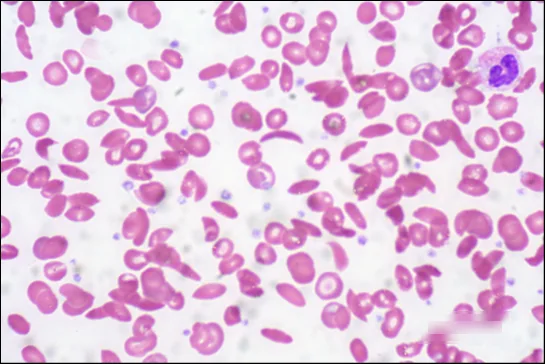
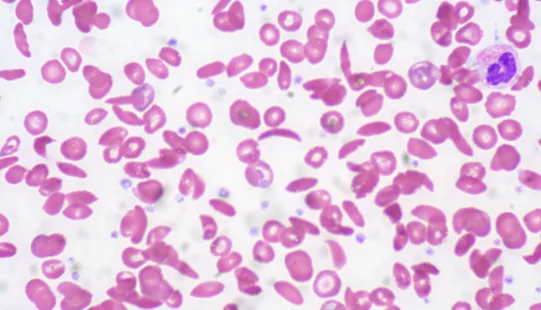
진행 중 작업 저장
Claude-Session: https://claude.ai/code/session_01AkwpGTzkgDbjbocjQu2QXd

diff --git a/docs/6-1.html b/docs/6-1.html
@@ -1101,7 +1101,7 @@
 <li><strong>항생제 내성</strong>: 항생제를 함부로 쓰면 우연히 내성을 가진 세균만 살아남아 늘어난다(4-2 단원의 <strong>자연선택</strong>). 그래서 항생제는 꼭 필요할 때, 처방대로 끝까지 먹어야 한다.</li>
 </ul>
 <p>항생제가 세균의 증식을 막는 효과는 배양 접시에서 직접 확인할 수 있다.</p>
-<figure class="photo small" id="photo-6-1-antibiotic-disk-plate"><div class="photo-art"><div class="photo-stack"><img src="assets/photos/6-1-antibiotic-disk-plate.webp" width="468" height="476" alt="검은 바탕 위의 둥근 배양 접시. 연한 노란빛을 띤 뿌연 세균층이 접시를 덮고 있고, 그 위에 작은 원판 다섯 개가 흩어져 있다. 각 원판 둘레에는 크기가 서로 다른 짙은 청록색의 둥근 고리가 있으며 왼쪽 아래 원판의 고리가 가장 크다." loading="lazy"></div></div><figcaption><b>항생제가 세균의 증식을 막는 모습</b> 배양 접시 전체에 세균을 고르게 바르고 항생제를 적신 작은 종이 원판 다섯 개를 올려 기른 것이다. 세균이 자란 곳은 뿌옇게 덮였지만, 원판 둘레에는 항생제가 퍼져 세균이 자라지 못한 둥근 투명 고리(억제 고리)가 생겼다. 고리가 클수록 그 항생제가 이 세균에 잘 듣는다. <span class="credit">출처: Don Stalons, CDC (OpenStax 수록), <a href="https://openstax.org/details/books/biology-2e" rel="noopener">OpenStax 《Biology 2e》 17.1 Biotechnology</a>, <a href="https://creativecommons.org/licenses/by/4.0/" rel="noopener">CC BY 4.0</a> · 원 그림에서 배양 접시 사진 부분만 잘라 냄</span></figcaption></figure>
+<figure class="photo small" id="photo-6-1-antibiotic-disk-plate"><div class="photo-art"><div class="photo-stack"><img src="assets/photos/6-1-antibiotic-disk-plate.webp" width="468" height="476" alt="검은 바탕 위의 둥근 배양 접시. 연한 노란빛을 띤 뿌연 세균층이 접시를 덮고 있고, 그 위에 작은 원판 다섯 개가 흩어져 있다. 각 원판 둘레에는 크기가 서로 다른 짙은 청록색의 둥근 고리가 있으며 왼쪽 아래 원판의 고리가 가장 크다." loading="lazy"></div></div><figcaption><b>항생제가 세균의 증식을 막는 모습</b> 배양 접시 전체에 세균을 고르게 바르고 항생제를 적신 작은 종이 원판 다섯 개를 올려 기른 것이다. 세균이 자란 곳은 뿌연 층으로 덮였지만, 원판 둘레에는 항생제가 퍼져 세균이 자라지 못했기 때문에 배지가 그대로 비쳐 보이는 짙은 색의 둥근 고리(억제 고리)가 생겼다. 고리가 클수록 그 항생제가 이 세균에 잘 듣는다. <span class="credit">출처: Don Stalons, CDC (OpenStax 수록), <a href="https://openstax.org/details/books/biology-2e" rel="noopener">OpenStax 《Biology 2e》 17.1 Biotechnology</a>, <a href="https://creativecommons.org/licenses/by/4.0/" rel="noopener">CC BY 4.0</a> · 원 그림에서 배양 접시 사진 부분만 잘라 냄</span></figcaption></figure>
 
 <h4 id="과학의-필요성을-논증하기">과학의 필요성을 논증하기</h4>
 <p><strong>논증(argument)</strong> 은 근거를 들어 주장을 정당화하는 것이다. 다음 세 요소를 갖추면 설득력 있는 논증이 된다.</p>

diff --git a/docs/3-6.html b/docs/3-6.html
@@ -847,7 +847,7 @@ mRNA와 비교하면 <strong>T가 U로 바뀐 것만 다르고 서열이 같다.
 </tbody></table></div>
 <p><strong>염기 1개 → 코돈 1개 → 아미노산 1개 → 단백질의 입체 구조 → 세포 모양 → 개체의 형질</strong>로 변화가 차례로 이어진다. 정보가 체계적으로 연결되어 있기 때문에, 작은 변화도 생명 시스템 전체에 영향을 줄 수 있다.</p>
 <p>실제로 겸상 적혈구 빈혈증 환자의 혈액을 현미경으로 보면 낫 모양으로 변한 적혈구를 찾을 수 있다.</p>
-<figure class="photo small" id="photo-3-6-sickle-cell-smear"><div class="photo-art"><div class="photo-stack"><img src="assets/photos/3-6-sickle-cell-smear.webp" width="545" height="364" alt="흰 바탕에 분홍색 적혈구 수백 개가 흩어져 있다. 대부분은 둥근 원반 모양이지만 그 사이사이에 가늘고 길게 휘어진 초승달 모양 세포가 여럿 섞여 있고, 오른쪽 위에는 보라색 핵을 가진 큰 백혈구 하나가 있다." loading="lazy"></div></div><figcaption><b>겸상 적혈구 빈혈증 환자의 혈액</b> 혈액을 얇게 펴 염색한 뒤 광학 현미경으로 본 모습이다. 가운데가 오목한 둥근 원반 모양의 정상 적혈구 사이에, 길쭉하게 휘어진 낫 모양(겸상)의 적혈구가 섞여 있다. 헤모글로빈의 아미노산 하나가 바뀐 결과가 세포의 모양으로 드러난 것이다. <span class="credit">출처: Ed Uthman (OpenStax 수록), <a href="https://openstax.org/details/books/biology-2e" rel="noopener">OpenStax 《Biology 2e》 3.4 Proteins</a>, <a href="https://creativecommons.org/licenses/by/4.0/" rel="noopener">CC BY 4.0</a> · 축척 표시를 지움</span></figcaption></figure>
+<figure class="photo small" id="photo-3-6-sickle-cell-smear"><div class="photo-art"><div class="photo-stack"><img src="assets/photos/3-6-sickle-cell-smear.webp" width="541" height="310" alt="흰 바탕에 분홍색 적혈구 수백 개가 흩어져 있다. 대부분은 둥근 원반 모양이지만 그 사이사이에 가늘고 길게 휘어진 초승달 모양 세포가 여럿 섞여 있고, 오른쪽 위에는 보라색 핵을 가진 큰 백혈구 하나가 있다." loading="lazy"></div></div><figcaption><b>겸상 적혈구 빈혈증 환자의 혈액</b> 혈액을 얇게 펴 염색한 뒤 광학 현미경으로 본 모습이다. 가운데가 오목한 둥근 원반 모양의 정상 적혈구 사이에, 길쭉하게 휘어진 낫 모양(겸상)의 적혈구가 섞여 있다. 헤모글로빈의 아미노산 하나가 바뀐 결과가 세포의 모양으로 드러난 것이다. <span class="credit">출처: Ed Uthman (OpenStax 수록), <a href="https://openstax.org/details/books/biology-2e" rel="noopener">OpenStax 《Biology 2e》 3.4 Proteins</a>, <a href="https://creativecommons.org/licenses/by/4.0/" rel="noopener">CC BY 4.0</a> · 축척 표시가 있는 아래쪽과 테두리를 잘라 냄</span></figcaption></figure>
 
 <p>아래 그림은 염기 하나의 변화가 적혈구의 모양까지 이어지는 과정을 단순하게 정리한 것이다.</p>
 <figure class="fig" id="fig-3-6-sickle-cell"><div class="fig-art"><svg xmlns="http://www.w3.org/2000/svg" viewBox="0 0 720 460" role="img" aria-labelledby="t-3-6-sickle-cell d-3-6-sickle-cell">
